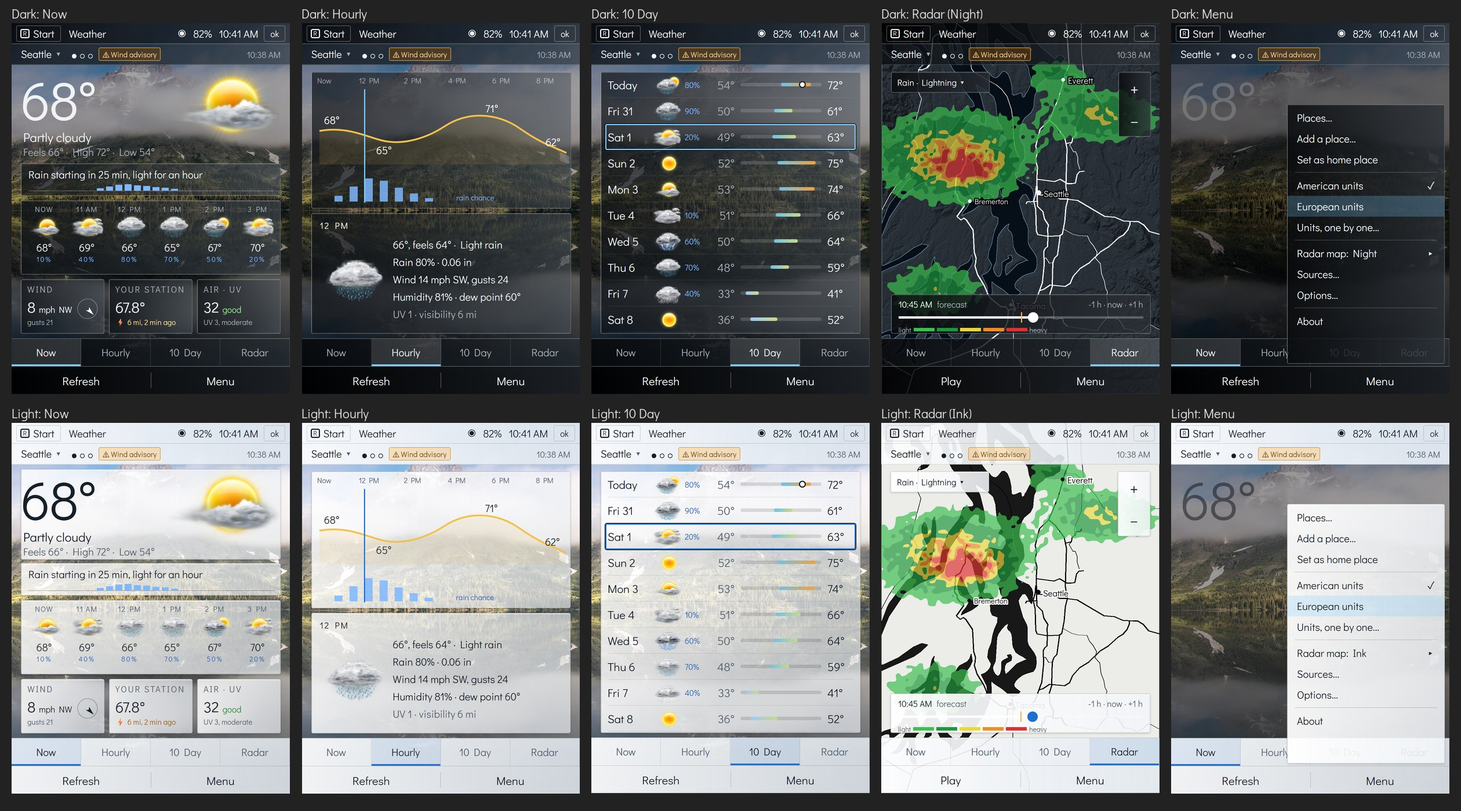
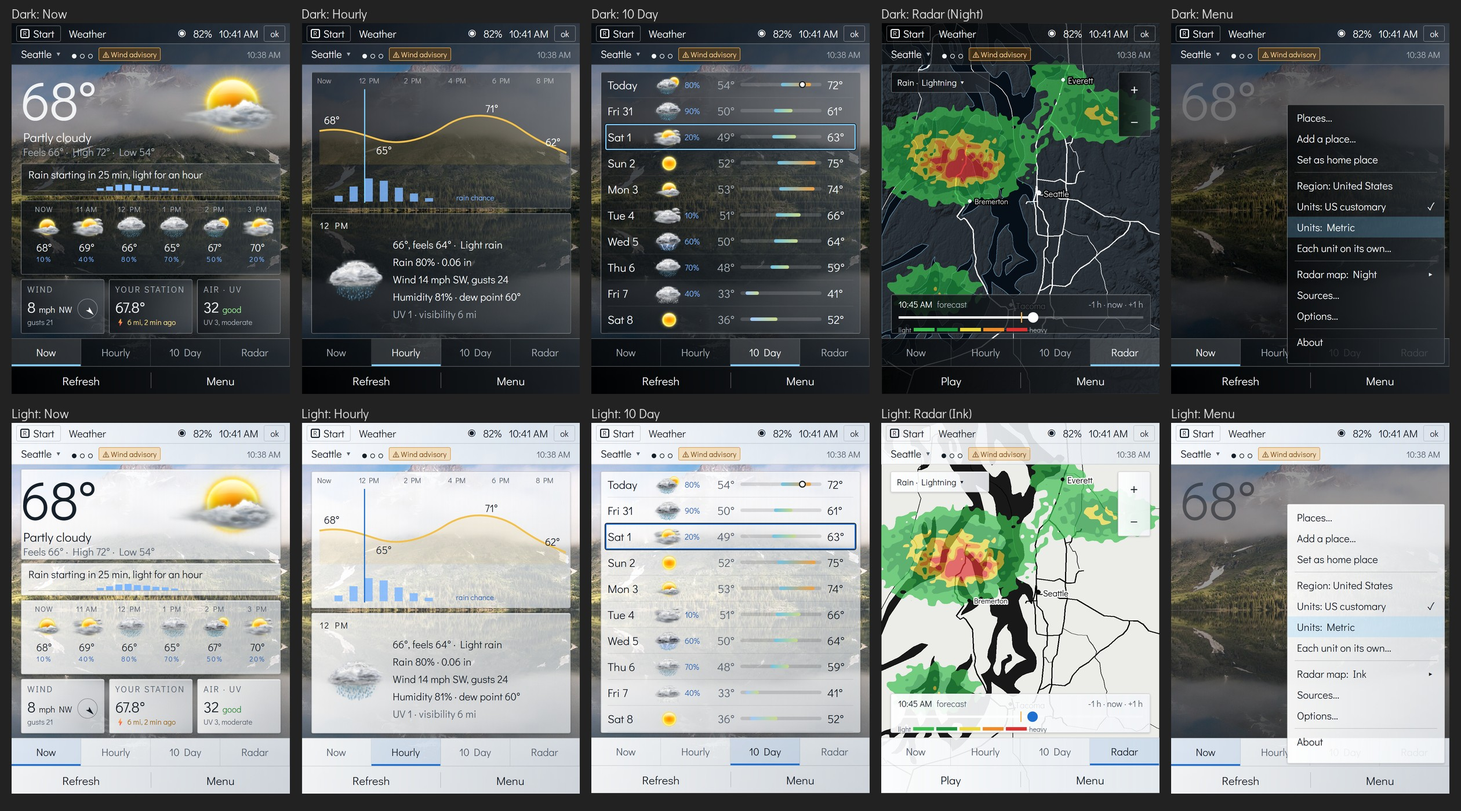
Units named for the system, not a country (the owner, 2026-10-30: "American" and "European" felt exclusionary): the region sets every default as phones do, then US customary or Metric, then each unit on its own; the design README's international rule says so for every choice. Mock-ups' settings and 
Iterate: n/a

Changed region(s): [[0.8667, 0.215, 0.9905, 0.3993], [0.8667, 0.7064, 0.9905, 0.8907]]

diff --git a/docs/design/weather-flows.md b/docs/design/weather-flows.md
@@ -19,7 +19,8 @@ on the mock-ups (thinking aloud is not yet a vote):
   is the default home; tapping its weather opens the full-screen app.
 - **The app:** modern features, data from popular open sources and from
   hyperlocal ones such as Tempest; at least a 10-day forecast, an hourly
-  forecast and a radar view; American and European formats selectable.
+  forecast and a radar view; American and European formats selectable
+  (his later correction: no country names as labels, below).
 - **Classic:** a desktop-skin style weather widget (as Rainmeter skins
   look on a Windows desktop: our own art) over the top half of a Windows
   Mobile-style desktop, customisable icons below it; tapping the widget
@@ -30,7 +31,7 @@ screens" are kept only as the earlier draft. **The mock-ups of the
 proposal** (sheet `mockups/weather-sheet.jpg`, each screen
 `mockups/weather-*.jpg`):
 
-<img src="mockups/weather-sheet.jpg" width="900" alt="Ten screens: the approved Modern home, the Weather app's Now page and Now scrolled, Hourly, 10 Day, Radar, the European format, settings, the Classic desktop with its weather widget, and the Classic app">
+<img src="mockups/weather-sheet.jpg" width="900" alt="Ten screens: the approved Modern home, the Weather app's Now page and Now scrolled, Hourly, 10 Day, Radar, metric units with Norway as the region, settings, the Classic desktop with its weather widget, and the Classic app">
 
 **Ruled by the owner, later the same day, for every app (ui.md):** the apps look
 the same in Classic and Modern; only the desktop, and so the way into
@@ -86,9 +87,14 @@ desktop widget (screen 8), Modern from the home page (screen 0).
 - **Radar** (screen 5): the past hour and the next as a loop with a
   scrubber, rain and lightning layers. **The panel feels one point**, so
   no pinch: zoom by + and &minus;, a double tap, or the D-pad.
-- **Formats** (screens 6-7): one switch, American (&deg;F, mph, in,
-  12-hour, month/day) or European (&deg;C, m/s or km/h, mm, hPa, km,
-  24-hour, day.month), then any unit on its own.
+- **Units and region** (screens 6-7): the **region** (a country, as
+  phones do) sets every default: units, date order, 12- or 24-hour
+  clock, the first day of the week. Then one switch, **US customary**
+  (&deg;F, mph, in) or **Metric** (&deg;C, km/h or m/s, mm, hPa, km),
+  then any unit on its own (the UK region gives &deg;C with mph and
+  miles). **No country names as labels** (owner, 2026-10-30: "American"
+  and "European" "feels a little exclusionary"): units are named for the
+  system, formats come from the region.
 
 ### Sources (proposed)
 
@@ -360,8 +366,8 @@ warning's text. Waits on the source's design (WF5).
 - **Alerts by country:** NWS in the US, MeteoAlarm across Europe, each
   national service's warnings elsewhere where open; a place with no open
   alert source says so instead of showing nothing.
-- **Formats:** American and European presets, then every unit on its
-  own; the date order and 12- or 24-hour clock from the region setting.
+- **Formats:** the region sets the defaults; US customary or Metric,
+  then every unit on its own; never labelled by a country.
 - **Names in any script:** place and station names in their own
   writing; where the base font lacks a script, a font pack supplies it
   (ui.md "Fonts the same way").

diff --git a/docs/design/README.md b/docs/design/README.md
@@ -16,7 +16,9 @@ should be a rule for all things like this." Every feature that touches
 places, units, dates, times, data sources, alerts, names or words works
 for any country: US defaults (the owner's), a region setting for the
 rest, sources and alerts chosen per country, every on-screen word from a
-strings table, names in their own script.
+strings table, names in their own script. Choices are named for what they
+are ("Metric", "US customary", "24-hour"), never for a country or a
+continent (owner, 2026-10-30).
 
 ## The pages in this area
 
